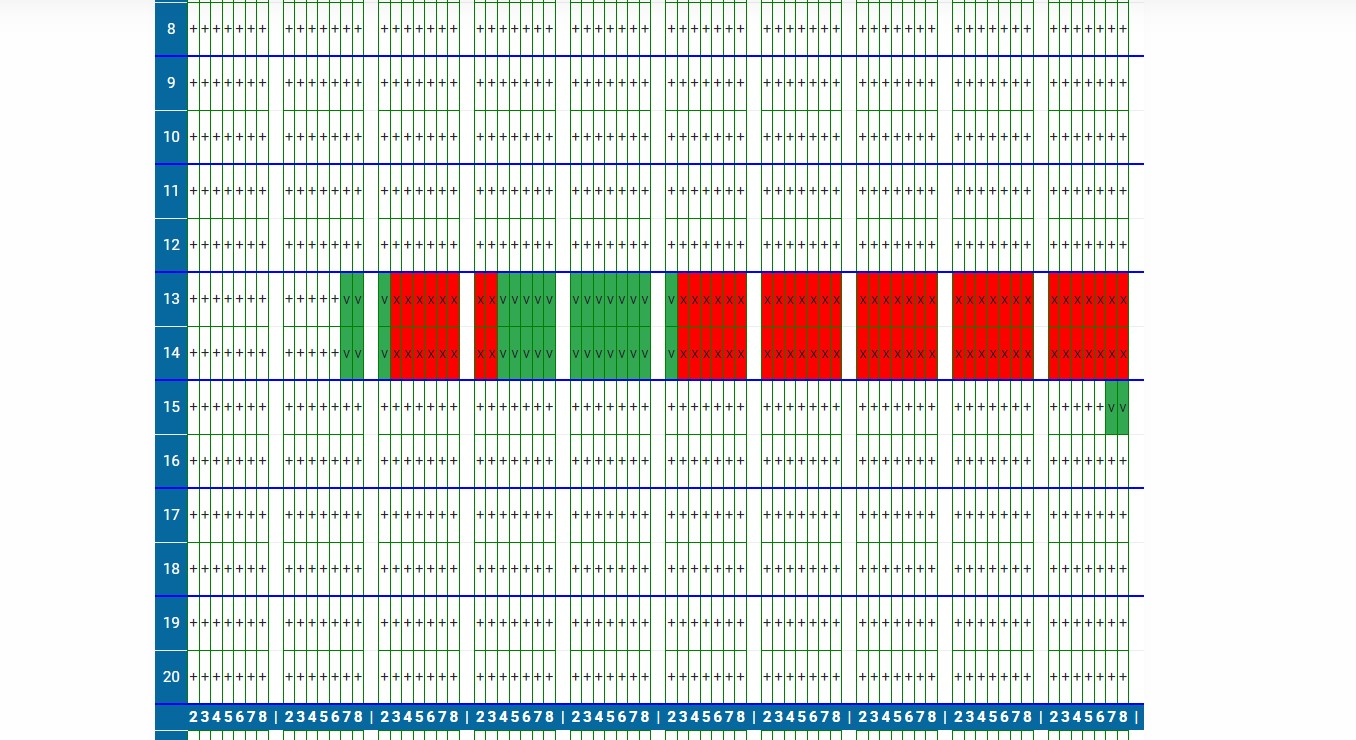
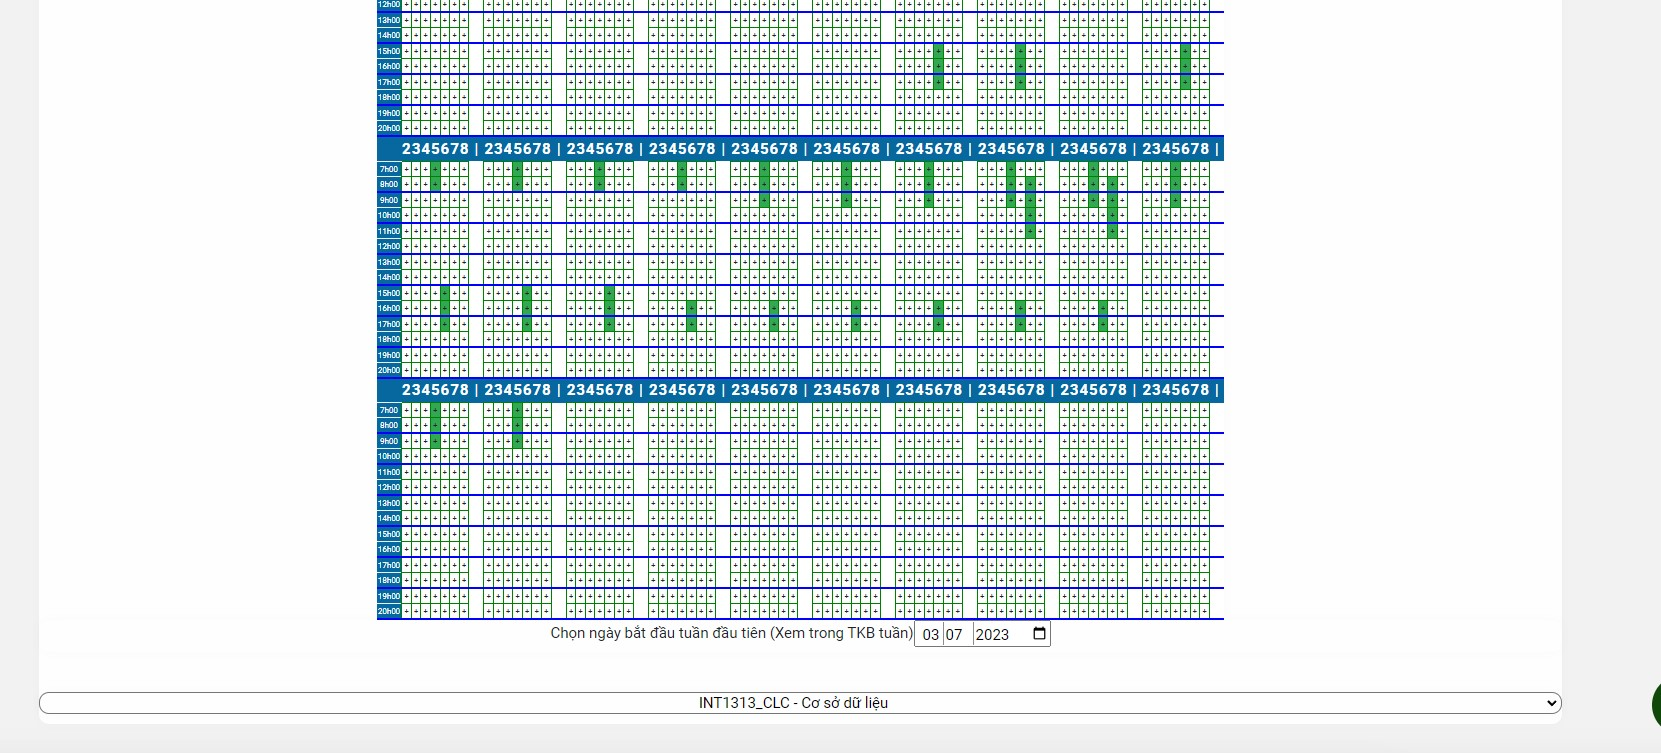
[20/6 3:16] Chỉnh sửa demo và tinh chỉnh màu sắc giao diện

diff --git a/code.user.js b/code.user.js
@@ -92,7 +92,7 @@ GM_addStyle(`
       }
 
     .editTKB {
-        background-color:#10470b !important;
+        background-color:#AD171C !important;
     }
 
     .editTKB > i {
@@ -129,7 +129,7 @@ GM_addStyle(`
     }
 
     .tkb_preview_table > thead {
-        background-color: #07689F;
+        background-color: #AD171C;
     }
 
     .tkb_preview_table > thead > tr > th {
@@ -169,7 +169,7 @@ GM_addStyle(`
         padding: 1px;
         vertical-align: middle;
         border-top: 0.2px solid #edeef2;
-        background-color: #07689F;
+        background-color: #AD171C;
         color: #fff;
         max-width: 30px;
         max-height: 10px;
@@ -285,6 +285,7 @@ window.onload = function () {
 //Cào mã môn học và tên môn học
 function caoMaMon() {
     var maMon = new Map();
+    maMon.clear();
     let elements = $(".editTKBcheckbox");
     for (let i = 0; i < elements.length; i++) {
         let ele = $(elements[i]);
@@ -370,7 +371,7 @@ function tkbLich() {
         //Bật chế độ TKB
         addEdit();
         //Cào mã môn học và tên môn học
-        caoMaMon();
+        
 
     }
 }
@@ -389,6 +390,8 @@ function addEdit() {
     $(".custom-control").attr("style", "display: none !important"); //Tắt các checkbox mặc định k click được
     $("#tkb_div").attr("style", "display: block !important") //Hiện TKB
     elements.append(`<input type="checkbox" class="editTKBcheckbox" style="margin-left: 10px;">`) //Thêm checkbox mới
+    caoMaMon();
+
 }
 function removeEdit() {
     console.log("Tắt chế độ TKB");
@@ -418,7 +421,7 @@ $(document).on("click", ".editTKBcheckbox", function (e) {
     let text = checkbox.closest("tr").find("td:nth-child(10)").text();
     let malop = checkbox.closest("tr").find("td:nth-child(7)").text();
 
-    
+
     GM_setValue(name + malop, checkbox.prop("checked"));
     let result = getData(text, name);
 
@@ -501,7 +504,7 @@ function keepUpdateCheckBox() {
             tables[i] = $('<table style="table-layout:fixed;text-align:center;border-collapse: collapse;" class="tkb_preview_table" id=' + table_id + '><thead> <th></th><th>2</th><th>3</th><th>4</th><th>5</th><th>6</th><th>7</th><th>8</th><th>|</th><th>2</th><th>3</th><th>4</th><th>5</th><th>6</th><th>7</th><th>8</th><th>|</th><th>2</th><th>3</th><th>4</th><th>5</th><th>6</th><th>7</th><th>8</th><th>|</th><th>2</th><th>3</th><th>4</th><th>5</th><th>6</th><th>7</th><th>8</th><th>|</th><th>2</th><th>3</th><th>4</th><th>5</th><th>6</th><th>7</th><th>8</th><th>|</th><th>2</th><th>3</th><th>4</th><th>5</th><th>6</th><th>7</th><th>8</th><th>|</th><th>2</th><th>3</th><th>4</th><th>5</th><th>6</th><th>7</th><th>8</th><th>|</th><th>2</th><th>3</th><th>4</th><th>5</th><th>6</th><th>7</th><th>8</th><th>|</th><th>2</th><th>3</th><th>4</th><th>5</th><th>6</th><th>7</th><th>8</th><th>|</th><th>2</th><th>3</th><th>4</th><th>5</th><th>6</th><th>7</th><th>8</th><th>|</th> </thead><tbody>');
             var tkb_separator, start_time_in_hr;
             for (var r = 0; r < rows; r++) {
-                if (r % 2) tkb_separator = 'border-bottom:2px solid blue;'
+                if (r % 2) tkb_separator = 'border-bottom:2px solid #ad171c;'
                 else tkb_separator = '';
                 start_time_in_hr = r + 7;
                 //Thêm hàng, thời gian bắt đầu tiết
